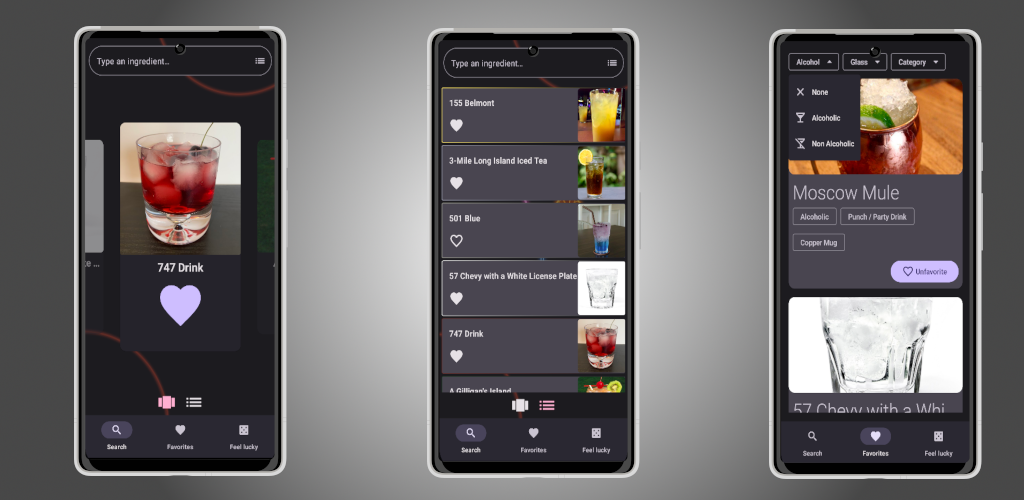
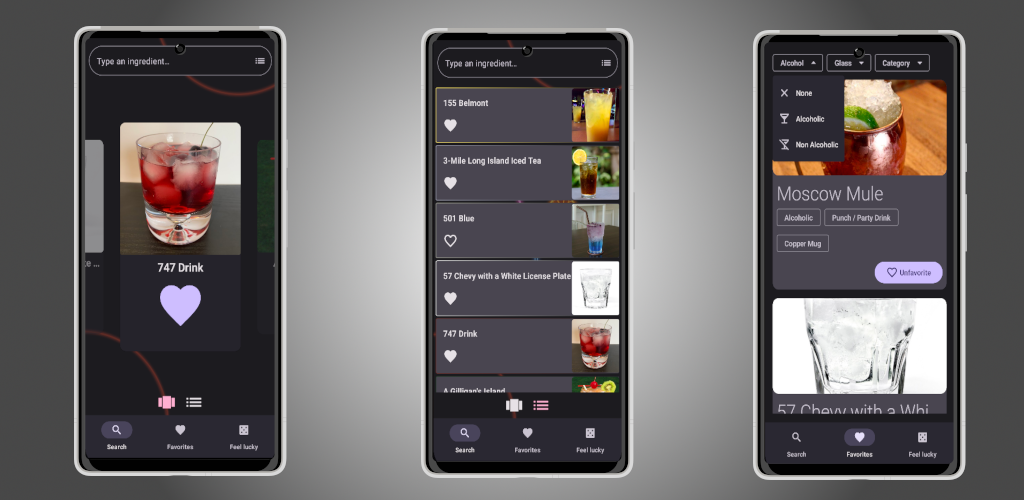
Minor changes on UI of DrinkDetailScreen.kt; bugfix show full heart when load a new drink on Random Drink Screen

Changed region(s): [[0.7188, 0.06, 0.9688, 0.96], [0.4062, 0.06, 0.625, 0.96], [0.5, 0.09, 0.5312, 0.12]]

diff --git a/app/src/main/java/it/thefedex87/cooldrinks/presentation/drink_details/DrinkDetailScreen.kt b/app/src/main/java/it/thefedex87/cooldrinks/presentation/drink_details/DrinkDetailScreen.kt
@@ -104,9 +104,9 @@ fun DrinkDetailScreen(
                             viewModel.onEvent(DrinkDetailEvent.FavoriteClicked)
                         }) {
                             Icon(
-                                imageVector = if (viewModel.state.isFavorite == false)
-                                    Icons.Default.FavoriteBorder else
-                                    Icons.Default.Favorite,
+                                imageVector = if (viewModel.state.isFavorite == true)
+                                    Icons.Default.Favorite else
+                                    Icons.Default.FavoriteBorder,
                                 contentDescription = null,
                                 tint = Color.Red
                             )
@@ -157,6 +157,9 @@ fun DrinkDetailScreen(
             modifier = Modifier
                 .fillMaxSize()
         ) {
+            val screenWidth = LocalConfiguration.current.screenWidthDp
+            val imageSize: Double = if(screenWidth * 0.60 > 245) 245.0 else screenWidth * 0.60
+
             Box(
                 modifier = Modifier
                     .fillMaxSize()
@@ -179,7 +182,7 @@ fun DrinkDetailScreen(
                         modifier = Modifier
                             .fillMaxSize()
                             .animateContentSize()
-                            .padding(top = 180.dp)
+                            .padding(top = (imageSize * 0.6).dp)
                     ) {
                         val maxHeight = this.maxHeight
                         val expandedHeight = maxHeight - closeCardHeight * 3
@@ -343,8 +346,6 @@ fun DrinkDetailScreen(
                 }
             }
 
-            val screenWidth = LocalConfiguration.current.screenWidthDp
-            val imageSize: Double = if(screenWidth * 0.7 > 245) 245.0 else screenWidth * 0.7
             Box(
                 modifier = Modifier
                     .align(alignment = Alignment.TopCenter)

diff --git a/app/src/main/java/it/thefedex87/cooldrinks/presentation/drink_details/components/CharacteristicDescription.kt b/app/src/main/java/it/thefedex87/cooldrinks/presentation/drink_details/components/CharacteristicDescription.kt
@@ -22,12 +22,12 @@ fun CharacteristicDescription(
     modifier: Modifier = Modifier
 ) {
     Column(
-        modifier = modifier.height(80.dp),
+        modifier = modifier.height(74.dp),
         horizontalAlignment = Alignment.CenterHorizontally,
         verticalArrangement = Arrangement.Center
     ) {
         Icon(
-            modifier = Modifier.size(32.dp),
+            modifier = Modifier.size(28.dp),
             imageVector = icon,
             contentDescription = null,
             tint = MaterialTheme.colorScheme.primary

diff --git a/app/src/main/java/it/thefedex87/cooldrinks/presentation/drink_details/DrinkDetailViewModel.kt b/app/src/main/java/it/thefedex87/cooldrinks/presentation/drink_details/DrinkDetailViewModel.kt
@@ -107,6 +107,7 @@ class DrinkDetailViewModel @Inject constructor(
                     isFavorite = isFavorite,
                     drinkDominantColor = dominantColor
                 )
+                Log.d(TAG, "Is favorite: $isFavorite")
             }
     }
 
